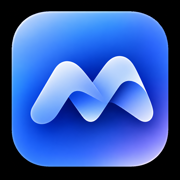
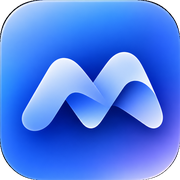
docs: rewrite the README around the live desktop
Replace the setup stub with what the site is: nine apps, the window
manager, four screenshots captured from ammararief.dev, the content files,
the app flags and the Cloudflare Pages deploy.

Also strip the black plate behind the favicon: the source export carried an
opaque #000 square, so the tab icon showed a dark frame around the rounded
mark. Masked to the icon's own corner radius, so all three sizes now have a
transparent edge.

diff --git a/README.md b/README.md
@@ -1,6 +1,103 @@
+<div align="center">
+
 # Portfolio
 
-A portfolio rendered as a desktop: profile, projects, experience, tech stack, notes, terminal and contact as windows on a macOS-style surface. Built with React 19, TypeScript, Vite 7 and Tailwind 4.
+**A portfolio that boots like an operating system.**
+
+Not a scrolling page — a macOS-style desktop with a menu bar, draggable
+windows, a dock, and nine apps you can actually use. Every word of content is
+a JSON file, so changing your projects never means touching a component.
+
+[**ammararief.dev**](https://ammararief.dev)
+
+[![Live](https://img.shields.io/badge/live-ammararief.dev-ea580c?style=flat-square)](https://ammararief.dev)
+[![React](https://img.shields.io/badge/React-19-087ea4?style=flat-square&logo=react)](https://react.dev)
+[![TypeScript](https://img.shields.io/badge/TypeScript-5.8-3178c6?style=flat-square&logo=typescript&logoColor=white)](https://www.typescriptlang.org)
+[![Vite](https://img.shields.io/badge/Vite-7-646cff?style=flat-square&logo=vite&logoColor=white)](https://vite.dev)
+[![Tailwind](https://img.shields.io/badge/Tailwind-4-38bdf8?style=flat-square&logo=tailwindcss&logoColor=white)](https://tailwindcss.com)
+[![Cloudflare](https://img.shields.io/badge/Cloudflare-Pages-f38020?style=flat-square&logo=cloudflare&logoColor=white)](https://pages.cloudflare.com)
+
+</div>
+
+![The desktop with the profile window and the Discover panel](./.github/assets/desktop.webp)
+
+<div align="center">
+<sub>Two windows open: the profile sidebar on the left, the project explorer on the right. Dock at the bottom, live clock in the menu bar.</sub>
+</div>
+
+---
+
+## Why a desktop
+
+A portfolio has to answer three questions: who are you, what have you built,
+and how do I reach you. A single scroll answers them once and then gets
+forgotten. A desktop lets each answer be a place — you can open Projects,
+close it, open the Terminal, and the rest of the surface stays where it was.
+
+It also gives the content room to be real: the Terminal runs actual commands
+against the same data the windows use, and the project explorer searches it
+live.
+
+## The apps
+
+| App | What it does |
+|---|---|
+| **Profile** | Identity, location, local time, appearance and language switches |
+| **Projects** | Searchable explorer with a Discover carousel and a full project list |
+| **Experience** | Timeline of roles with the projects each one produced |
+| **Tech Stack** | Technologies grouped by layer, each tied to the projects that use it |
+| **Notes** | Blog reader backed by Firebase, with a writing dashboard at `/dashboard` |
+| **Terminal** | A working shell: `help`, `about`, `project`, `stack`, `find`, `grep`, `cat`, `date`, `clear` |
+| **Contact** | Email, social links, one-click copy |
+| **Spotify** | Now-playing card, off by default (needs a Premium app owner) |
+
+<table>
+<tr>
+<td width="50%">
+<img src="./.github/assets/projects.webp" alt="Projects window with search and Discover carousel" />
+<p align="center"><sub><b>Projects</b> — search, Discover carousel, recent list</sub></p>
+</td>
+<td width="50%">
+<img src="./.github/assets/terminal.webp" alt="Terminal window running whoami" />
+<p align="center"><sub><b>Terminal</b> — real commands over the same data</sub></p>
+</td>
+</tr>
+</table>
+
+![Appearance switcher in the profile window](./.github/assets/appearance.webp)
+
+<div align="center">
+<sub><b>Appearance</b> — light, dark, or follow the system. Language switches between English and Indonesian.</sub>
+</div>
+
+## Details that took work
+
+- **One window manager, not nine modals.** Dragging, focus order, z-index,
+  minimise and full-screen all run through a single store, so windows stack and
+  restore the way a real desktop does.
+- **The wallpaper never flashes.** HTML and body carry the wallpaper inline in
+  `<head>`, preloaded, so the first paint is already the desktop instead of a
+  navy void.
+- **A hand-drawn intro.** A single-stroke `hello` is written out on first visit
+  using the Web Animations API, redrawn shorter on later loads in the session,
+  and skipped for `prefers-reduced-motion`.
+- **Content is data.** Nothing is hardcoded: drop a JSON file in `public/data/`
+  and the window, the Terminal and the search index all pick it up.
+- **Bilingual.** Every string goes through a `t()` lookup with an Indonesian
+  overlay keyed by id, falling back to English for anything untranslated.
+
+## Stack
+
+| Layer | Choice |
+|---|---|
+| Framework | React 19 + Vite 7 |
+| Language | TypeScript 5.8 (strict) |
+| Styling | Tailwind 4 + a scoped desktop stylesheet |
+| Routing | React Router 7 (`BrowserRouter`) |
+| Editor | Quill (blog dashboard) |
+| Charts | Recharts (visitor statistics) |
+| Backend | Firebase — Firestore, Auth, Analytics |
+| Deploy | Cloudflare Pages |
 
 ## Run locally
 
@@ -9,29 +106,56 @@ npm install
 npm run dev      # http://localhost:5173
 npm run build    # type-check + production build into dist/
 npm run preview  # serve the built output
+npm run lint     # ESLint
 ```
 
-## Content
+## Content — edit JSON, never components
 
-All copy and data live in `public/data/` — no rebuild needed when you edit them:
+Everything the site says lives in `public/data/`. No rebuild needed for edits:
 
 | File | Holds |
-| --- | --- |
-| `profile.json` | name, nickname, role, description, contact details |
-| `projects.json` | every project card, its screenshot and links |
-| `work.json` | employment history, linked to project ids |
-| `stack.json` | technology categories shown in the Tech Stack window |
-| `sosials.json` | social links on the Contact window |
-| `i18n/id.json` | Indonesian translations, keyed by id; missing keys fall back to English |
+|---|---|
+| `profile.json` | Name, nickname, role, description, contact details |
+| `projects.json` | Project cards — links, stack tags, optional logo and screenshot |
+| `work.json` | Employment history, linked to project ids |
+| `stack.json` | Technology categories and their projects |
+| `sosials.json` | Social links on the Contact window |
+| `i18n/id.json` | Indonesian translations, keyed by id |
 
-Screenshots go in `public/assets/` (and a 960px `.webp` copy in `public/assets/webp/`). A project without an `image` falls back to a coloured tile with its initials, so empty entries never render broken.
+A project without an `image` falls back to a coloured tile with its initials,
+so an incomplete entry never renders broken.
 
 ## Which apps appear
 
-`.env.example` lists the flags. Copy it to `.env.local` and edit, or set them as GitHub repository variables (`Settings → Secrets and variables → Actions → Variables`) for the deployed build.
+`.env.example` lists the flags. Copy it to `.env.local` for local work, or set
+them as repository variables so the build picks them up:
+
+```bash
+VITE_SHOW_ABOUT=true
+VITE_SHOW_PROJECTS=true
+VITE_SHOW_EXPERIENCE=true
+VITE_SHOW_STACK=true
+VITE_SHOW_NOTES=true
+VITE_SHOW_TERMINAL=true
+VITE_SHOW_CONTACT=true
+VITE_SHOW_SPOTIFY=false   # off: the Web API 403s without a Premium owner
+```
 
 ## Deploy
 
-`.github/workflows/deploy.yml` builds and publishes to GitHub Pages on every push to `main`. Enable it once under `Settings → Pages → Source: GitHub Actions`.
+Cloudflare Pages builds this repo directly: build command `npm run build`,
+output directory `dist`. `public/_redirects` carries the SPA fallback
+(`/* /index.html 200`) so deep links like `/blog` resolve on refresh instead of
+404ing.
 
-The Spotify app needs a PHP host for `public/api/spotify.php`; GitHub Pages cannot run PHP, so it stays off by default (`VITE_SHOW_SPOTIFY=false`).
+`.github/workflows/build.yml` runs the same build on every push and uploads
+`dist/`, so TypeScript errors surface before a deploy rather than during one.
+
+The Spotify app needs a PHP host for `public/api/spotify.php`; Pages cannot run
+PHP, which is the other reason it ships disabled.
+
+---
+
+<div align="center">
+<sub>Built by <a href="https://github.com/marprojector">@marprojector</a> · <a href="https://ammararief.dev">ammararief.dev</a></sub>
+</div>
